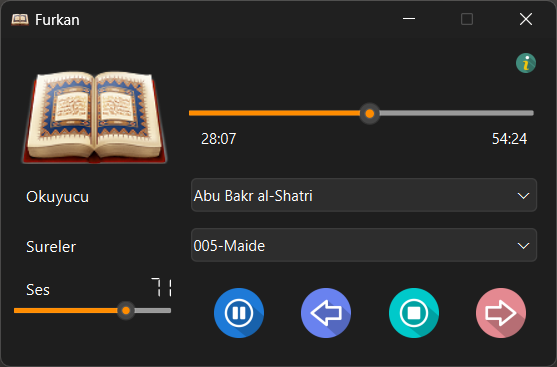
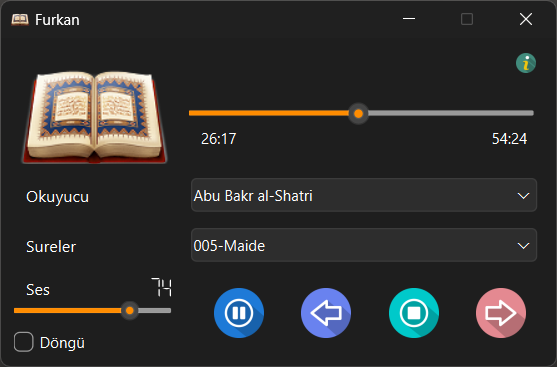
Döngü

diff --git a/furkan.cpp b/furkan.cpp
@@ -222,6 +222,10 @@ void furkan::durumDegisti(QMediaPlayer::MediaStatus durum)
         dinletD();
         ui->pushButton_ip->setEnabled(false);
         ui->slider_sr->setEnabled(false);
+        if(ui->checkBox_sr->isChecked())
+        {
+            sureDegistir(1);
+        }
     }
 }
 
